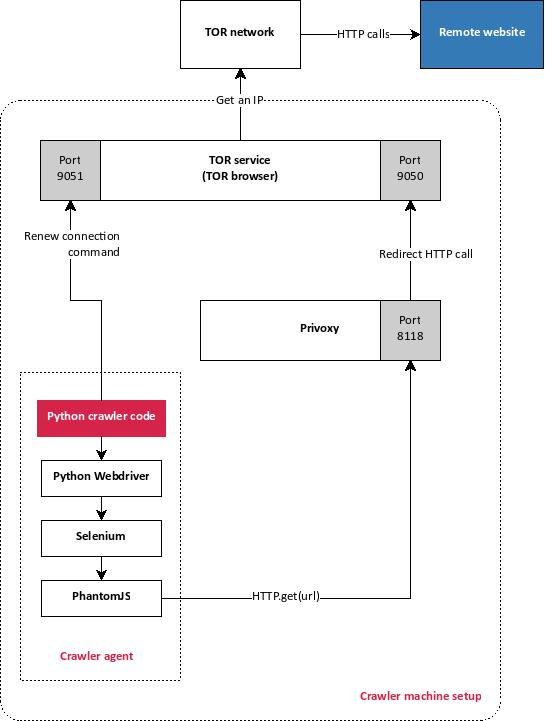
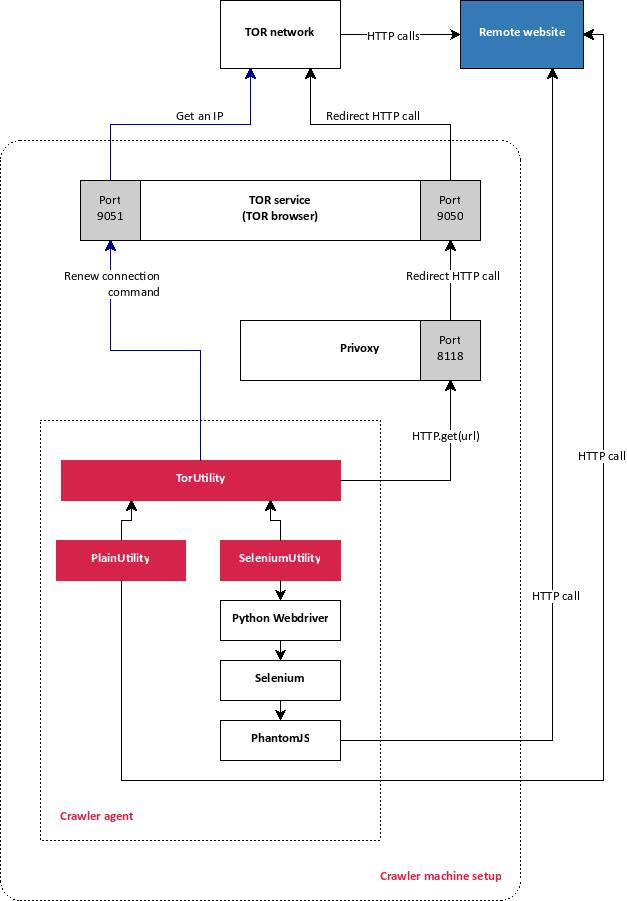
Update article template to include related articles in footer.

diff --git a/theme/feng/templates/article.html b/theme/feng/templates/article.html
@@ -65,3 +65,41 @@
 </article>
 
 {% endblock %}
+
+{% block related %}
+<h1><span style="color:#cdcdcd;">Related: </span></h1>
+
+{% for cat,articles in categories %}
+{% if cat == category %}
+{% for a in articles %}
+{% if article != a %}
+<div class="row page-header" style="margin-top:2em;margin-bottom:2em;">
+    <div class="col-md-2">
+        <div class="label label-default">
+            <i class="fa fa-calendar" style="opacity:0.5;">&nbsp;</i>
+            {{ a.date|strftime('%Y-%m-%d') }}
+        </div>
+    </div>
+    <div class="col-md-5">
+        <h4>
+            {{ a.title }}
+        </h4>
+
+        <div style="color:#cdcdcd;">
+            <p>
+                {{ a.summary }}
+            </p>
+        </div>
+    </div>
+    <div class="col-md-5">
+        <a class="btn button pull-right" href="{{SITEURL}}/{{a.url}}">
+            read more
+        </a>
+    </div>
+</div>
+{% endif %}
+{% endfor %}
+{% endif %}
+{% endfor %}
+
+{% endblock %}

diff --git a/content/dev/pelican_theme.md b/content/dev/pelican_theme.md
@@ -1,3 +1,35 @@
+Title: DIY Pelican theme
+Date: 2016-09-04 11:00
+Tags: dev, pelican
+Slug: pelican theme
+Author: Feng Xia
+
+As a Python house, [Pelican](http://blog.getpelican.com/) is
+definitely a winner for our blog site. But like any software engineer
+who hold a high standard to his work, I got turned off by
+all the [available themes](http://www.pelicanthemes.com/).
+"Ugly", "Where is the document?", "Why my translation is not shown?", I felt
+running in a maze where there were reflections of exit everywhere, but none
+was real. "Well, if it's in Python, we can make one." Solution is that simple.
+Besides, we love [Jinja2](http://jinja.pocoo.org/docs/dev/) template systems,
+and Pelican has spelled out [everything](http://docs.getpelican.com/en/3.6.3/themes.html#templates-and-variables)
+we need.
+
+Quickly we wrote down a few on wish list:
+
+1. The design must be based on [Bootstrap](http://getbootstrap.com/components/).
+2. Includes [Fontawesome](http://fontawesome.io/icons/), [Datatable](https://datatables.net/),
+    [Lightbox2](http://lokeshdhakar.com/projects/lightbox2/), and
+    [SyntaxHighlighter](http://alexgorbatchev.com/SyntaxHighlighter/).
+3. Reuse elements we have designed for [showcases]({filename}/toc.md), such as layout, CSS and images.
+4. Colors we like: <font color="#337ab7">blue(#337ab7)</font> and <font color="#d52349">red(#d52349)</font>.
+5. [Google fonts](https://fonts.google.com/?category=Serif,Sans+Serif,Monospace&selection.family=Alfa+Slab+One|Archivo+Narrow|Baloo+Paaji|Jaldi|Teko)
+
+The actual work was pretty straightforward. Below shows the
+"layout.html" that is inherited by all the other html
+templates.
+
+<pre class="brush:xml;">
 <!DOCTYPE html>
 <html>
     <head>
@@ -12,7 +44,7 @@
 	    <meta name="viewport" content="user-scalable=no, width=device-width, initial-scale=1, maximum-scale=1">
 
         <meta name="description" content="">
-        <meta name="author" content="">
+        <meta name="author" content="{{AUTHOR}}">
 
         {% block core_library %}
         <!-- HTML5 shim and Respond.js IE8 support of HTML5 elements and media queries -->
@@ -25,20 +57,20 @@
 
 
 	    {# Fontawesome #}
-	    <link rel="stylesheet" type="text/css" href="/theme/bower_components/font-awesome/css/font-awesome.min.css">
+	    <link rel="stylesheet" type="text/css" href="/theme/js/font-awesome/css/font-awesome.min.css">
 
 	    {# DataTable #}
-	    <link rel="stylesheet" type="text/css" href="/theme/bower_components/datatables/media/css/dataTables.bootstrap.min.css">
+	    <link rel="stylesheet" type="text/css" href="/theme/js/datatables/media/css/dataTables.bootstrap.min.css">
 
         {# lightbox #}
-	    <link rel="stylesheet" type="text/css" href="/theme/bower_components/lightbox2/dist/css/lightbox.min.css">
+	    <link rel="stylesheet" type="text/css" href="/theme/js/lightbox2/dist/css/lightbox.min.css">
 
         {# Bootstrap #}
-	    <link rel="stylesheet" href="/theme/bower_components/bootstrap/dist/css/bootstrap.min.css">
+	    <link rel="stylesheet" href="/theme/js/bootstrap/dist/css/bootstrap.min.css">
 
         {# Syntaxhighlighter #}
-	    <link rel="stylesheet" href="/theme/bower_components/SyntaxHighlighter/styles/shCoreDefault.css">
-	    <link rel="stylesheet" href="/theme/bower_components/SyntaxHighlighter/styles/shThemeDefault.css">
+	    <link rel="stylesheet" href="/theme/js/SyntaxHighlighter/styles/shCoreDefault.css">
+	    <link rel="stylesheet" href="/theme/js/SyntaxHighlighter/styles/shThemeDefault.css">
 
         {# my own #}
 	    <link rel="stylesheet" type="text/css" href="/theme/css/my.css">
@@ -47,7 +79,7 @@
         <link href="https://fonts.googleapis.com/css?family=Alfa+Slab+One|Archivo+Narrow|Baloo+Paaji|Jaldi|Teko" rel="stylesheet">
 
 	    {# JQuery lib #}
-	    <script type="text/javascript" src="/theme/bower_components/jquery/dist/jquery.min.js"></script>
+	    <script type="text/javascript" src="/theme/js/jquery/dist/jquery.min.js"></script>
         {% endblock %}
 
 
@@ -86,6 +118,7 @@
 		        </div><!-- end of block header -->
             </div>
 
+            {# introduction #}
             {% block introduction %}
             {% endblock %}
 
@@ -105,10 +138,6 @@
 
         {% block footer %}
         <footer>
-            {# block of related contents #}
-            {% block related %}
-            {% endblock %}
-
             <div class="row">
 	            <div class="col-md-offset-1 col-md-10">
                     <h3>Categories:</h3>
@@ -135,44 +164,7 @@
                     </ul>
                 </div>
            </div>
-
-
-            <div class="row" style="text-align:center; margin-top:5em;">
-                <h4>
-                    2016 PY Consulting Ltd.
-                    1236 Beacon Street, Brookline, MA 021461
-                </h4>
-
-                <ul class="list-inline">
-                    <li>
-                        <a href="mailto:{{EMAIL_ADDRESS}}">
-                            <i class="fa fa-envelope"></i>
-                        </a>
-                    </li>
-
-                    <li>
-                        <a href="{{GITHUB_ADDRESS}}">
-                            <i class="fa fa-github"></i>
-                        </a>
-                    </li>
-                    <li>
-                        <a href="{{LINKEDIN_ADDRESS}}">
-                            <i class="fa fa-linkedin"></i>
-                        </a>
-                    </li>
-                    <li>
-                        <a href="">
-                            <i class="fa fa-phone-square"></i>
-                            (508)801-1794
-                        </a>
-                    </li>
-
-                </ul>
-                <p>
-                    <i class="fa fa-copyright" ></i>All rights reserved.
-                </p>
-            </div>
-            </footer>
+        </footer>
         {% endblock %}<!- end of block footer -->
 
 
@@ -180,42 +172,36 @@
         {% block Javascripts %}
 	    <!-- Bootstrap -->
 	    <script
-            src="/theme/bower_components/bootstrap/dist/js/bootstrap.min.js">
+            src="/theme/js/bootstrap/dist/js/bootstrap.min.js">
         </script>
 
 	    {# DataTable #}
         <script type="text/javascript"
-                src="/theme/bower_components/datatables/media/js/jquery.dataTables.min.js">
+                src="/theme/js/datatables/media/js/jquery.dataTables.min.js">
         </script>
         <script type="text/javascript"
-                src="/theme/bower_components/datatables/media/js/dataTables.bootstrap.min.js">
+                src="/theme/js/datatables/media/js/dataTables.bootstrap.min.js">
         </script>
 
 	    {# lightbox: http://ashleydw.github.io/lightbox/ #}
         <script type="text/javascript"
-                src="/theme/bower_components/lightbox2/dist/js/lightbox.min.js">
+                src="/theme/js/lightbox2/dist/js/lightbox.min.js">
         </script>
 
         {# Syntaxhighlighter #}
         <script type="text/javascript"
-                src="/theme/bower_components/SyntaxHighlighter/scripts/XRegExp.js">
+                src="/theme/js/SyntaxHighlighter/scripts/XRegExp.js">
         </script>
         <script type="text/javascript"
-                src="/theme/bower_components/SyntaxHighlighter/scripts/shCore.js">
+                src="/theme/js/SyntaxHighlighter/scripts/shCore.js">
         </script>
         <script type="text/javascript"
-                src="/theme/bower_components/SyntaxHighlighter/scripts/shBrushPython.js">
-        </script>
-        <script type="text/javascript"
-                src="/theme/bower_components/SyntaxHighlighter/scripts/shBrushXml.js">
-        </script>
-        <script type="text/javascript"
-                src="/theme/bower_components/SyntaxHighlighter/scripts/shBrushBash.js">
+                src="/theme/js/SyntaxHighlighter/scripts/shBrushPython.js">
         </script>
 
 	    {# TOC https://github.com/dcneiner/TableOfContents/tree/master #}
         <script type="text/javascript"
-                src="/theme/bower_components/jquery.tableofcontents/js/jquery.tableofcontents.min.js">
+                src="/theme/js/jquery.tableofcontents/js/jquery.tableofcontents.min.js">
         </script>
 
 
@@ -233,13 +219,6 @@
 			 });
 
 
-             // lightbox
-			 j$(document).delegate('[data-type="attachment-thumbnail"]', 'click', function(e){
-				 var url = j$(this).attr('src');
-				 j$(this).closest('div.row').find('[data-toggle="lightbox"]').attr('href',url);
-				 j$(this).closest('div.row').find('[data-toggle="lightbox"]').find('img:first-child').attr('src',url);
-			 });
-
              // syntaxhighlighter
              SyntaxHighlighter.defaults['toolbar'] = false;
              SyntaxHighlighter.all();
@@ -255,3 +234,25 @@
     </body>
 
 </html>
+</pre>
+
+Once this is set up, creating an individual page is simple. Just replace
+the "{% block content %}" with relevant content and you are done.
+Take the "page.html" for example that displays all static pages
+such as "About.""
+
+<pre class="brush:xml;">
+{% extends "layout.html" %}
+
+{% block content %}
+<h1>{{ page.title }}</h1>
+
+<div class="col-md-offset-1 col-md-10">
+<article>
+  {{ page.content }}
+</article>
+</div>
+{% endblock %}
+</pre>
+
+Like what you see? Roll up your sleeves and make a new theme. 1,2,3, Go!

diff --git a/content/dev/crawler.md b/content/dev/crawler.md
@@ -90,12 +90,16 @@ But that is just not nice. Crossed off the list with a 100% vote.
 Second, use a VPN. This is a good and common approach. We could use
 either an in-house server or a commercial one. But that's too, "boring",
 said one developer. So after a few
-tries, we ended up was something quite interesting, simple yet
+tries, we ended up with something quite interesting, simple yet
 powerful.
 
 <a href="/images/crawler.jpg" data-lightbox="crawler" data-title="Crawler architecture">
 <img class="center-block" src="/images/crawler.jpg"/>
 </a>
+
+Besides the old school "PlainUtility", we have introduced
+two upgrades &rarr; "TorUtility" and "SeleniumUtility". Both
+added a layer of indirection to the puzzle, but also a layer of protection.
 
 # TOR
 
@@ -177,7 +181,7 @@ The key to config the TOR was to enable "ControlPort" and set up "HashedControlP
 The password would be used when sending request to the local TOR service such as renewing a connection. TOR
 service would in turn pass that on to TOR network on our behalf.
 
-<pre>
+<pre class="brush:bash;">
 In /etc/tor/torrc:
 
 ## The port on which Tor will listen for local connections from Tor
@@ -197,7 +201,7 @@ In */etc/privoxy/config*, we set up a receiving port and a forwarding port.
 Forwarding port was set to 9050 as that's the default listening port by
 the TOR service.
 
-<pre>
+<pre class="brush:bash;">
 listen-address  localhost:8118
 forward-socks5   /   127.0.0.1:9050
 </pre>
